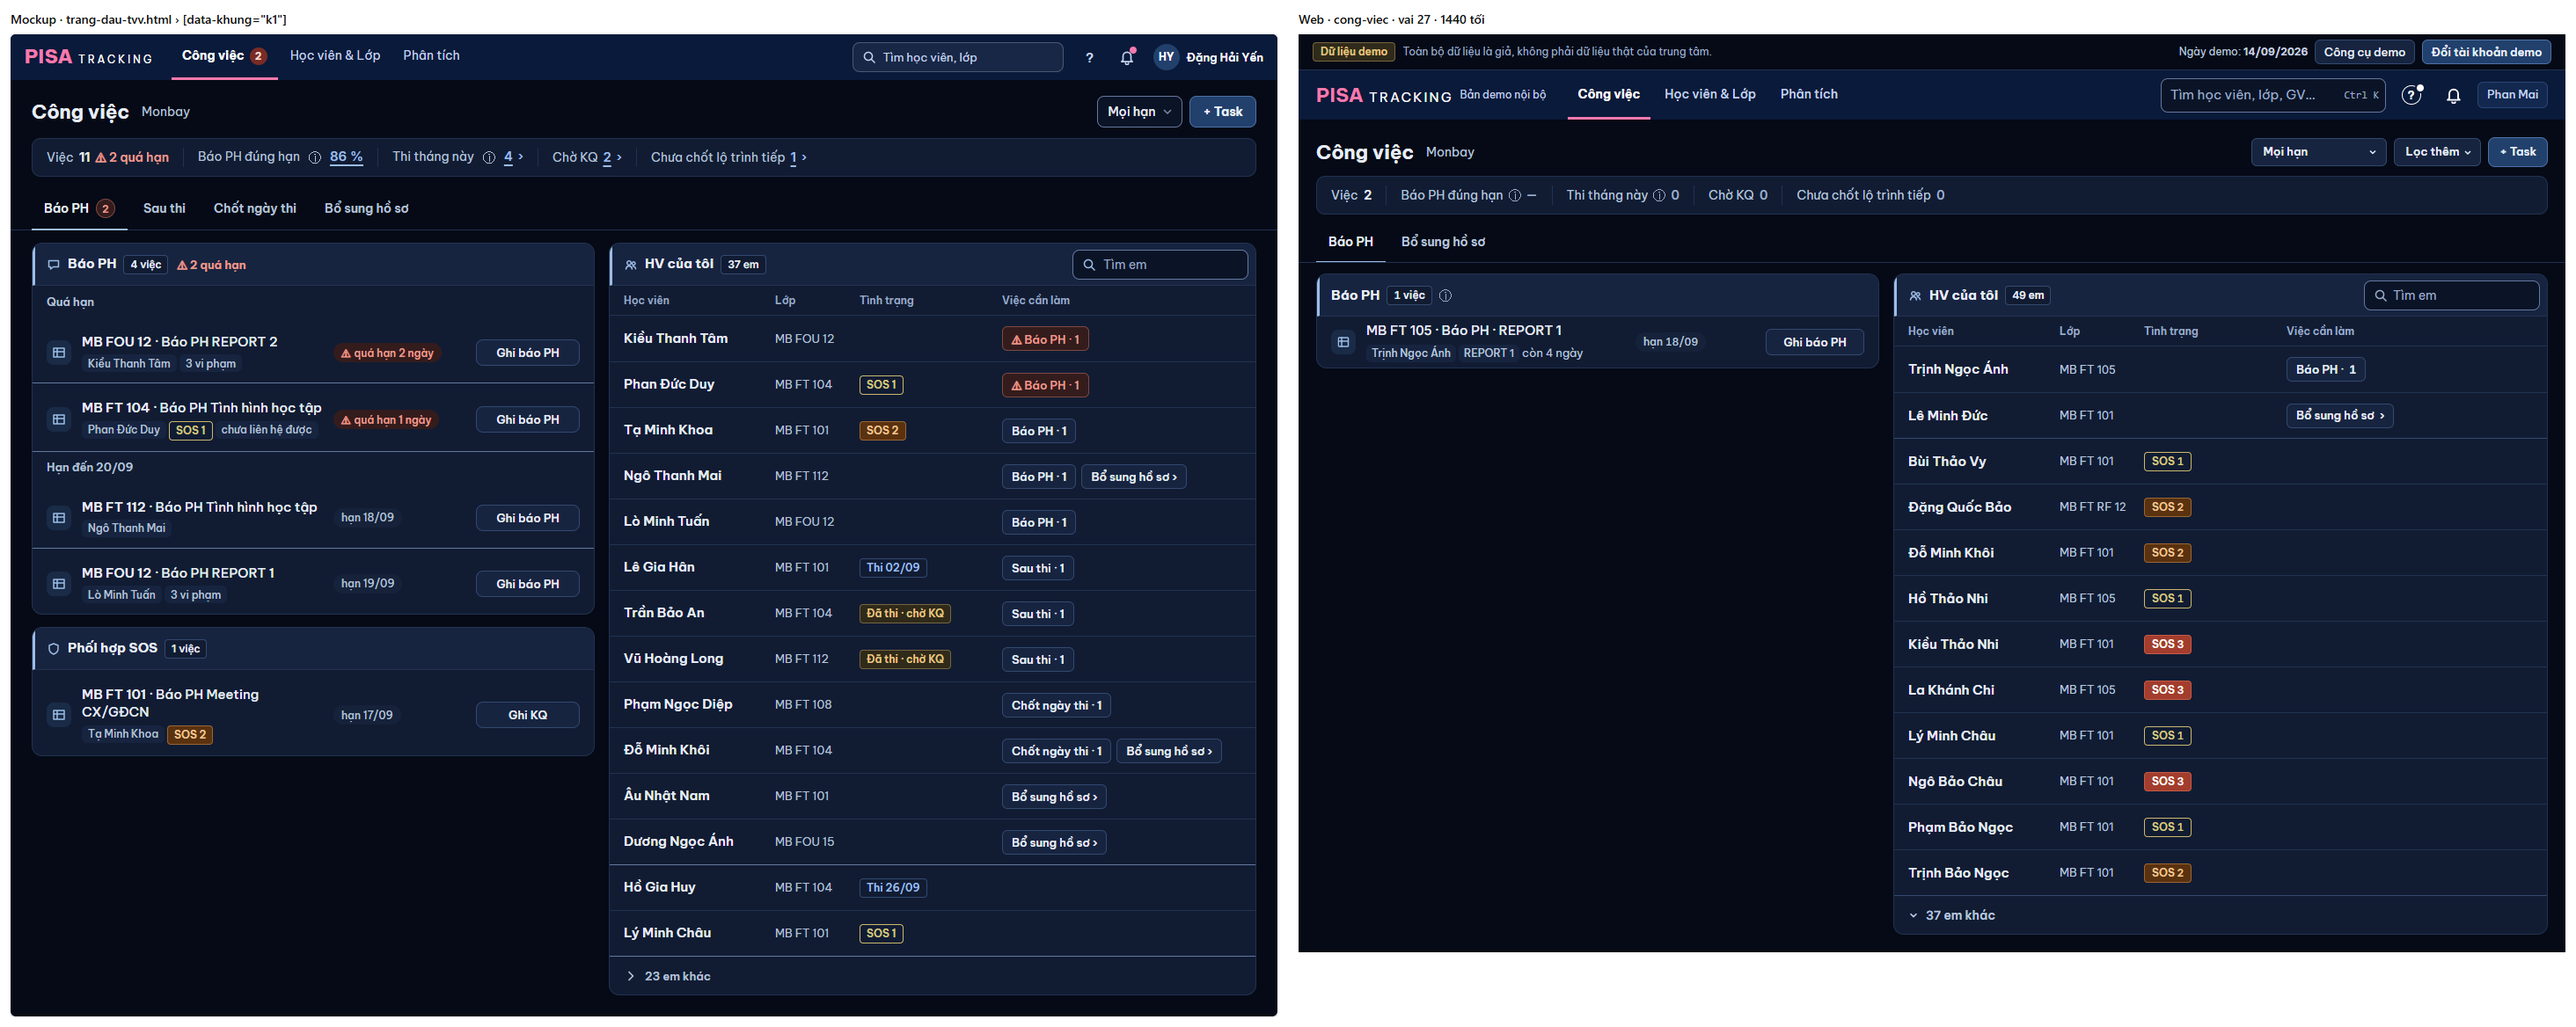
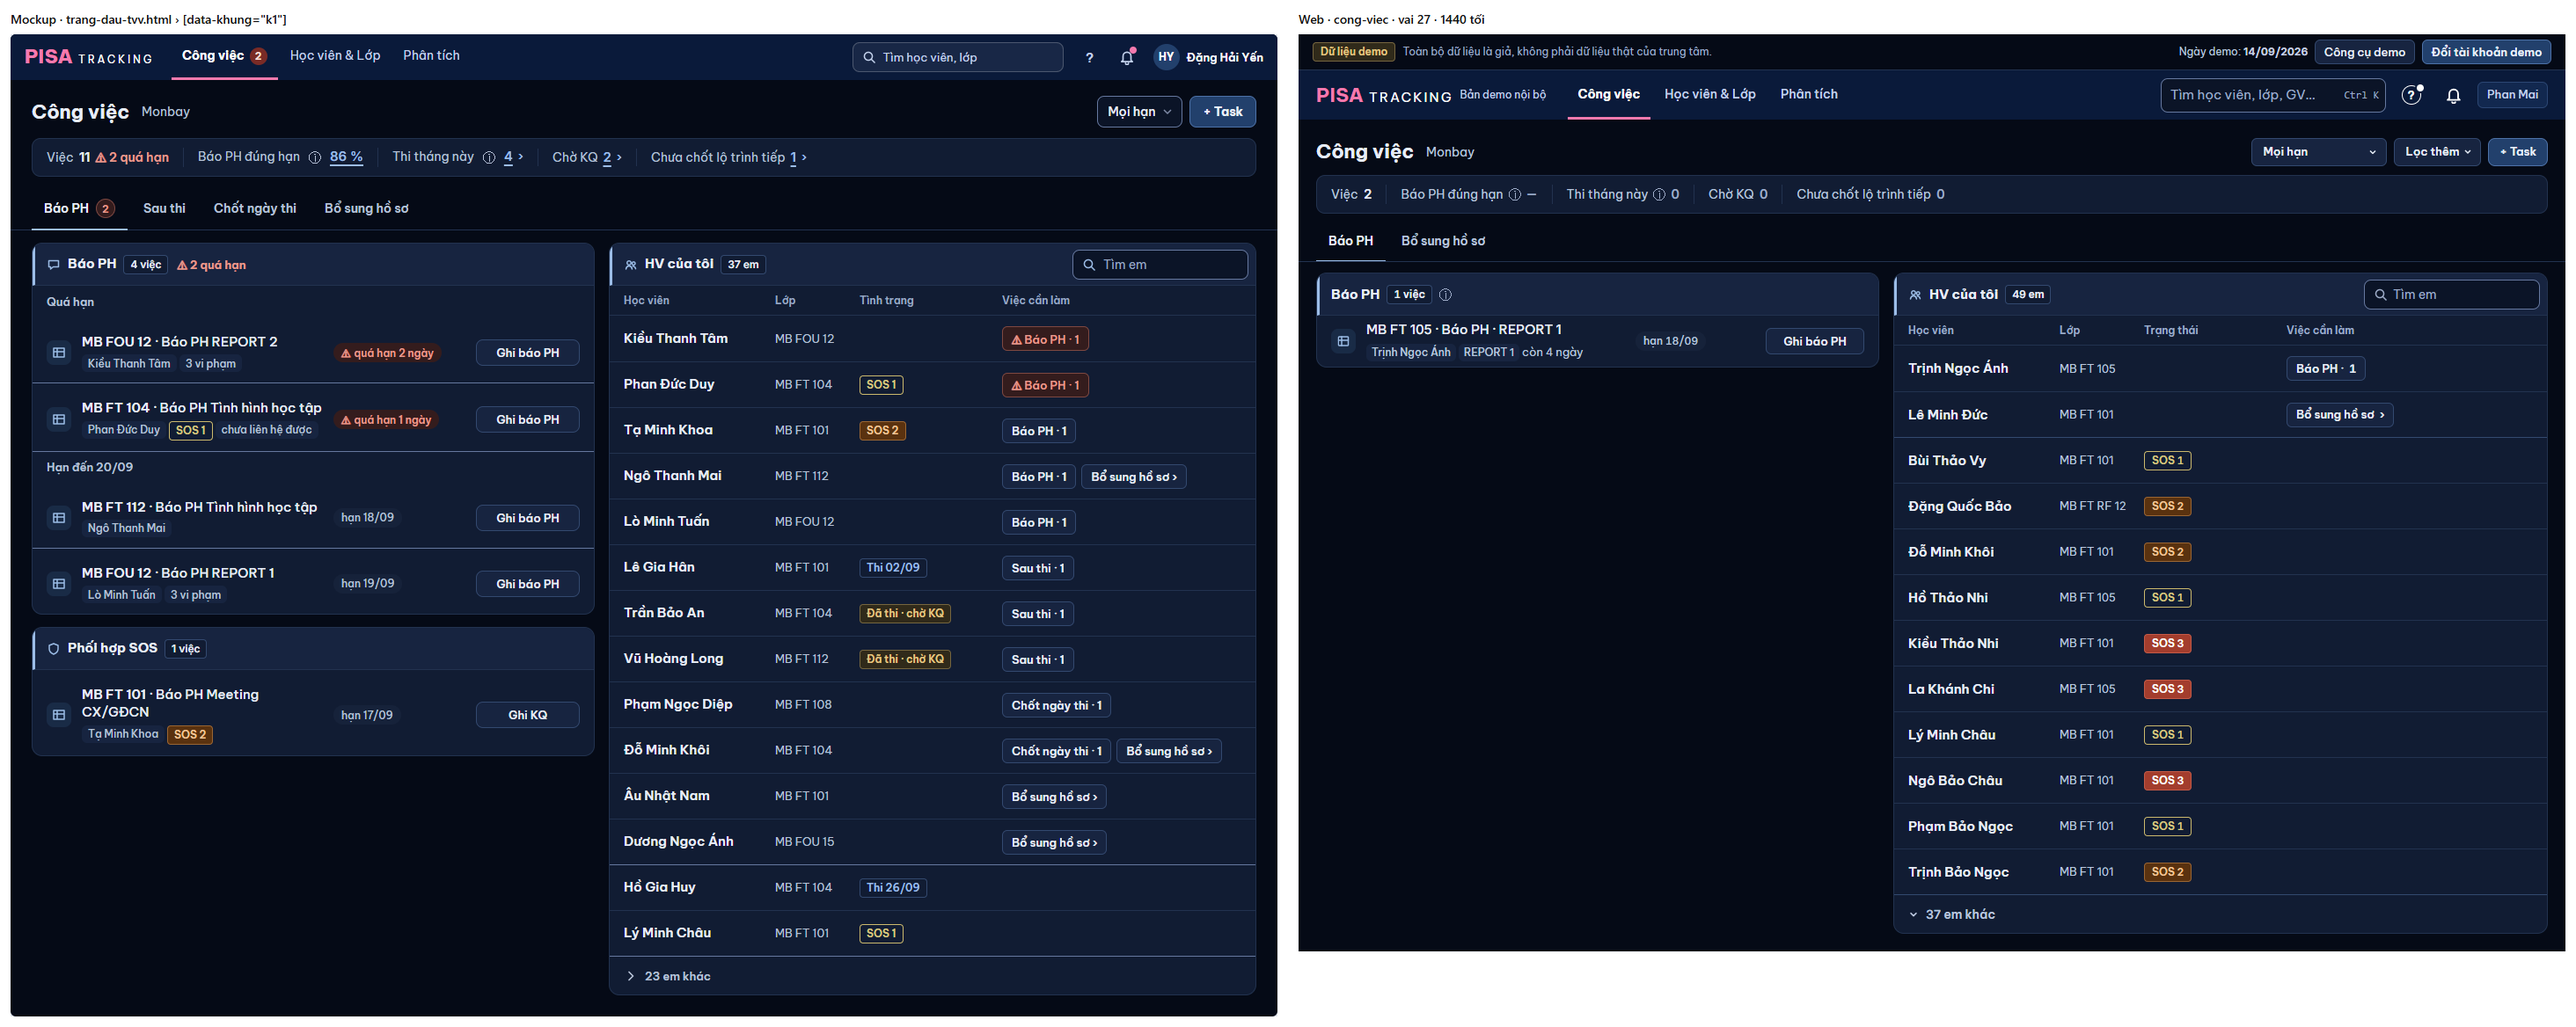
GD-8: 375 HV của tôi — tên · lớp · trạng thái một hàng, ẩn dải số ở đoạn HV của tôi (④ K7b); ảnh cặp mới

diff --git a/web/src/modules/congViec/HvCuaToi.tsx b/web/src/modules/congViec/HvCuaToi.tsx
@@ -132,7 +132,8 @@ export function HvCuaToi({ em, viec, onMo, dangTai, loi }: {
 function DongEm({ d, dau, ranh, homNay, onMo, nhat = false }: { d: Dong; dau: boolean; ranh: boolean; homNay: string; onMo: (x: WorkItem) => void; nhat?: boolean }) {
   const e = d.em;
   return (
-    <li className={`${COT} min-h-[52px] py-[7px] ${dau ? '' : 'border-t'} max-sm:flex max-sm:flex-col max-sm:items-start max-sm:gap-1.5 max-sm:py-3`}
+    /* ④ K7b: 375 — tên · lớp · trạng thái một hàng (gói khi hẹp), chip xuống hàng riêng cao 44. */
+    <li className={`${COT} min-h-[52px] py-[7px] ${dau ? '' : 'border-t'} max-sm:flex max-sm:flex-wrap max-sm:items-center max-sm:gap-x-2 max-sm:gap-y-2 max-sm:py-3`}
       style={{ borderColor: ranh ? 'var(--line-strong)' : 'var(--line)' }}>
       <Link to={duongHoSoHocVien(e.id)} className={`min-w-0 max-w-full truncate text-[15px] leading-normal no-underline hover:!text-[color:var(--accent)] hover:underline ${nhat ? 'font-medium !text-[color:var(--text-dim)]' : 'font-semibold !text-[color:var(--text)]'}`}>{e.ten}</Link>
       <span className="truncate whitespace-nowrap text-[13px] text-dim">

diff --git a/web/src/modules/congViec/HoTroHocVienTab.tsx b/web/src/modules/congViec/HoTroHocVienTab.tsx
@@ -555,7 +555,7 @@ export function HoTroHocVienTab() {
           </p>
         )}
         {/* GD-8 (④ K1, R4.2): dải mỏng 5 chỉ số của TVV ngay dưới đầu trang (thay 5 ô to của Tổng quan TVV cũ). */}
-        {laTvv && data && !data.scopeEmpty && <DaiChiSoTvv chiSo={hvTvv.data?.chiSo} em={hvTvv.data?.em} />}
+        {laTvv && data && !data.scopeEmpty && <div className={xemLopHep ? 'max-lg:hidden' : undefined}><DaiChiSoTvv chiSo={hvTvv.data?.chiSo} em={hvTvv.data?.em} /></div>}
         {/* CV-TAB: hàng tab hạng mục — dưới hàng lọc, kẻ dưới hết bề ngang (mockup `.tabs`). */}
         {/* GD-1 (mockup v21 K8a/b): < 1024 px — công tắc hai đoạn "Việc · Lớp của tôi" thay khung phải. */}
         {(laGv || laTvv) && data && !data.scopeEmpty && (
